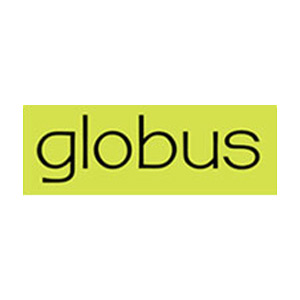
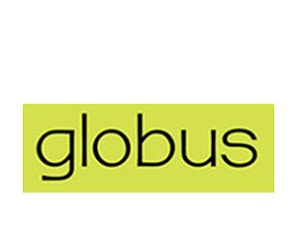
add images

Changed region(s): [[0.06, 0.3471, 0.93, 0.8099]]

diff --git a/aboutus.html b/aboutus.html
@@ -11,11 +11,6 @@
     <!-- Link of CSS CDN -->
     <link rel="stylesheet" href="https://stackpath.bootstrapcdn.com/bootstrap/4.5.2/css/bootstrap.min.css">
 
-    <!-- Link of Js and Jquery CDN
-    <script src="https://code.jquery.com/jquery-3.5.1.slim.min.js"></script>
-    <script src="https://cdn.jsdelivr.net/npm/popper.js@1.16.1/dist/umd/popper.min.js" ></script>
-    <script src="https://stackpath.bootstrapcdn.com/bootstrap/4.5.2/js/bootstrap.min.js" ></script> -->
-
     <!-- Link of Fontawsm CDN -->
     <link rel="stylesheet" href="https://stackpath.bootstrapcdn.com/font-awesome/4.7.0/css/font-awesome.min.css">
 
@@ -278,9 +273,27 @@
             <div class="row text-center">
                 <div class="col-md-3">
                     <div class="brand-logo">
-                        <img src="img/brand-nykaa.jpg">
+                        <img src="img/brand-nykaa.png">
                     </div>
                     <p>discount upto 40%</p>
+                </div>
+                <div class="col-md-3">
+                    <div class="brand-logo">
+                        <img src="img/brand-addidas.jpg">
+                    </div>
+                    <p>discount upto 60%</p>
+                </div>
+                <div class="col-md-3">
+                    <div class="brand-logo">
+                        <img src="img/brand-Globus.jpg">
+                    </div>
+                    <p>discount upto 45%</p>
+                </div>
+                <div class="col-md-3">
+                    <div class="brand-logo">
+                        <img src="img/brand-levis.png">
+                    </div>
+                    <p>discount upto 55%</p>
                 </div>
             </div>
         </div>
@@ -311,7 +324,7 @@
                     <div class="profile">
                         <img src="img/female-icon2.jpg" class="user">
                         <blockquote>
-                            What a beautiful store and such lovely selections. I bought gifts to take home at reasonable prices and couldn't resist a few items for myself. I'm so glad to have experienced this store and this style of India - highly recommend
+                            What a beautiful store and such lovely selections. I bought gifts to take home at reasonable prices and couldn't resist a few items for myself. I'm so glad to have experienced this store an highly recommend
                         </blockquote>
                         <h3>Sakshi Goyal <span>Fashion Blogger</span></h3>
                     </div>

diff --git a/aboutus.css b/aboutus.css
@@ -255,7 +255,7 @@ h1::after
 /* -----------offers-------------- */
 #fashion-brands
 {
-    margin-bottom: 150px;
+    margin-bottom: 40px;
 }
 .brand-logo
 {
